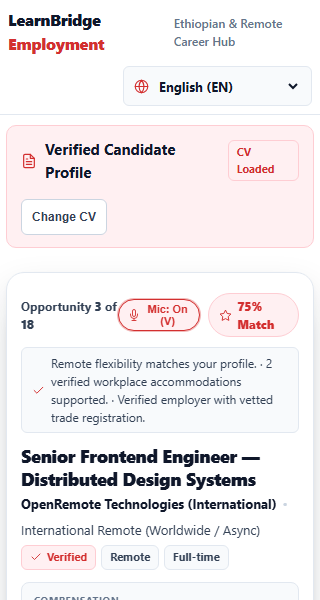
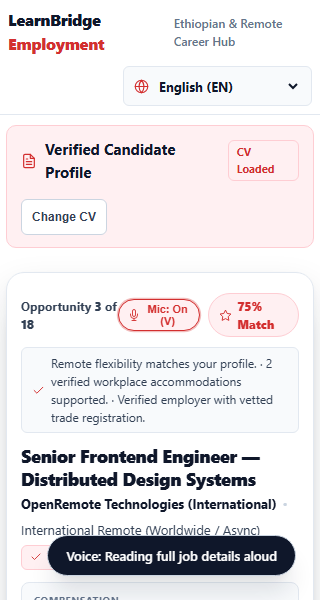
feat(employment): instant voice trigger on 'more' and complete aloud spoken readout from the beginning

Changed region(s): [[0.125, 0.87, 0.9375, 0.99]]

diff --git a/employment/app.js b/employment/app.js
@@ -426,64 +426,177 @@ class EmploymentApp {
     }
   }
 
-  toggleCardDetails() {
+  buildFullSpokenDetails(job, currentItem) {
+    if (!job) return '';
+    const parts = [];
+
+    // Title, Employer & Location
+    parts.push(`Opportunity: ${job.title} at ${job.employerName}, located in ${job.location}.`);
+
+    // Compensation & Salary
+    if (job.salaryDisclosed && job.salaryMin) {
+      const sal = job.salaryMax
+        ? `${job.salaryMin.toLocaleString()} to ${job.salaryMax.toLocaleString()} ${job.currency}`
+        : `From ${job.salaryMin.toLocaleString()} ${job.currency}`;
+      parts.push(`Compensation: ${sal}.`);
+    } else {
+      parts.push(`Compensation is disclosed upon interview.`);
+    }
+
+    // Industry & Work Arrangement
+    parts.push(`Industry: ${job.industry || 'Technology'}. Work type: ${job.employmentType || 'Full-time'}, ${job.isRemote ? 'Remote' : (job.workArrangement || 'On-site')}.`);
+
+    // Match Score & Reason
+    if (currentItem?.matchScore) {
+      parts.push(`Candidate match: ${currentItem.matchScore} percent.`);
+    }
+    if (currentItem?.explanation?.summary) {
+      parts.push(`Match reason: ${currentItem.explanation.summary}.`);
+    }
+
+    // Description Overview
+    if (job.description) {
+      parts.push(`Role overview: ${job.description}.`);
+    }
+
+    // Key Responsibilities
+    if (job.responsibilities && job.responsibilities.length > 0) {
+      parts.push(`Key responsibilities include: ${job.responsibilities.join('. ')}.`);
+    }
+
+    // Requirements & Qualifications
+    if (job.requirements && job.requirements.length > 0) {
+      parts.push(`Requirements and qualifications: ${job.requirements.join('. ')}.`);
+    }
+
+    // Verified Workplace Accommodations
+    const accomms = [];
+    if (job.accommodations) {
+      if (job.accommodations.screen_reader_ready?.status === 'supported') accomms.push('Screen reader workflows');
+      if (job.accommodations.etsl_interpreter?.status === 'supported') accomms.push('Ethiopian Sign Language interpreter available');
+      if (job.accommodations.captioned_meetings?.status === 'supported') accomms.push('Captioned meetings');
+      if (job.accommodations.wheelchair_accessible?.status === 'supported') accomms.push('Barrier-free wheelchair access');
+      if (job.accommodations.flexible_hours?.status === 'supported') accomms.push('Flexible work hours');
+    }
+    if (accomms.length > 0) {
+      parts.push(`Verified workplace accommodations supported: ${accomms.join(', ')}.`);
+    }
+
+    // Next actions
+    parts.push(`To apply with your uploaded CV, press Right Arrow or say Apply. To skip to the next opportunity, press Left Arrow or say Pass. To collapse details, press M or say Less.`);
+
+    return parts.join(' ');
+  }
+
+  showCardDetailsAndRead() {
     const cardEl = document.querySelector('.swipe-card');
     if (!cardEl) return;
     const detailsEl = cardEl.querySelector('.swipe-card-expanded-details');
     const toggleBtn = cardEl.querySelector('#btn-card-toggle-details');
     if (!detailsEl) return;
 
-    const isExpanded = detailsEl.style.display !== 'none';
-    if (isExpanded) {
-      detailsEl.style.display = 'none';
-      detailsEl.setAttribute('aria-hidden', 'true');
-      cardEl.classList.remove('is-expanded');
-      if (toggleBtn) {
-        toggleBtn.setAttribute('aria-expanded', 'false');
-        const txt = toggleBtn.querySelector('.toggle-text');
-        if (txt) txt.textContent = 'More Details (Press M or click)';
-      }
-      if (window.a11y) {
-        window.a11y.announceLive("Collapsed details. Press Right Arrow to apply, Left Arrow to pass, M for details.", false);
-      }
-    } else {
-      detailsEl.style.display = 'block';
-      detailsEl.setAttribute('aria-hidden', 'false');
-      cardEl.classList.add('is-expanded');
-      if (toggleBtn) {
-        toggleBtn.setAttribute('aria-expanded', 'true');
-        const txt = toggleBtn.querySelector('.toggle-text');
-        if (txt) txt.textContent = 'Less Details (Press M to collapse)';
-      }
-      if (window.a11y) {
-        const currentItem = this.cardDeck[this.currentCardIndex];
-        const job = currentItem?.job;
-        const spoken = `Full details for ${job?.title || 'job'}. Press Right Arrow to apply with CV, Left Arrow to pass, or M to collapse.`;
-        window.a11y.announceLive(spoken, false);
-        if (window.a11y.currentMode === 'blind') {
-          window.a11y.speak(spoken);
-        }
+    detailsEl.style.display = 'block';
+    detailsEl.setAttribute('aria-hidden', 'false');
+    cardEl.classList.add('is-expanded');
+    if (toggleBtn) {
+      toggleBtn.setAttribute('aria-expanded', 'true');
+      const txt = toggleBtn.querySelector('.toggle-text');
+      if (txt) txt.textContent = 'Less Details (Press M to collapse)';
+    }
+
+    if (window.a11y) {
+      const currentItem = this.cardDeck[this.currentCardIndex];
+      const job = currentItem?.job;
+      if (job) {
+        const fullReadout = this.buildFullSpokenDetails(job, currentItem);
+        window.a11y.announceLive(fullReadout, false);
+        window.a11y.speak(fullReadout);
       }
     }
   }
 
+  collapseCardDetails() {
+    const cardEl = document.querySelector('.swipe-card');
+    if (!cardEl) return;
+    const detailsEl = cardEl.querySelector('.swipe-card-expanded-details');
+    const toggleBtn = cardEl.querySelector('#btn-card-toggle-details');
+    if (!detailsEl) return;
+
+    detailsEl.style.display = 'none';
+    detailsEl.setAttribute('aria-hidden', 'true');
+    cardEl.classList.remove('is-expanded');
+    if (toggleBtn) {
+      toggleBtn.setAttribute('aria-expanded', 'false');
+      const txt = toggleBtn.querySelector('.toggle-text');
+      if (txt) txt.textContent = 'More Details (Press M or click)';
+    }
+
+    if (window.a11y) {
+      window.a11y.stopSpeech();
+      window.a11y.announceLive("Collapsed details. Press Right Arrow to apply, Left Arrow to pass, M for details.", false);
+    }
+  }
+
+  toggleCardDetails() {
+    const cardEl = document.querySelector('.swipe-card');
+    if (!cardEl) return;
+    const detailsEl = cardEl.querySelector('.swipe-card-expanded-details');
+    if (!detailsEl) return;
+
+    const isExpanded = detailsEl.style.display !== 'none';
+    if (isExpanded) {
+      this.collapseCardDetails();
+    } else {
+      this.showCardDetailsAndRead();
+    }
+  }
+
   handleVoiceCommand(transcript) {
-    const lower = (transcript || '').toLowerCase().trim();
-    if (lower.includes('more') || lower.includes('detail') || lower.includes('expand') || lower.includes('info')) {
-      this.toggleCardDetails();
-      if (window.a11y) window.a11y.showVisualToast('Voice: Revealed Details');
+    if (!transcript) return false;
+    const clean = transcript.toLowerCase().replace(/[^\w\s]/g, ' ').trim();
+    const words = clean.split(/\s+/);
+    console.log("[EmploymentApp] Voice command heard:", transcript, "clean:", clean);
+
+    // 1. More / Details Command
+    const isMore = words.includes('more') || words.includes('detail') || words.includes('details') ||
+                   words.includes('info') || words.includes('information') || words.includes('expand') ||
+                   words.includes('full') || words.includes('read') || clean.includes('more');
+
+    if (isMore) {
+      this.showCardDetailsAndRead();
+      if (window.a11y) window.a11y.showVisualToast('Voice: Reading full job details aloud');
       return true;
     }
-    if (lower.includes('apply') || lower.includes('right') || lower.includes('yes')) {
+
+    // 2. Collapse / Less Command
+    const isLess = words.includes('less') || words.includes('collapse') || words.includes('close') ||
+                   words.includes('hide') || words.includes('stop');
+    if (isLess) {
+      this.collapseCardDetails();
+      if (window.a11y) window.a11y.showVisualToast('Voice: Collapsed details');
+      return true;
+    }
+
+    // 3. Apply / Right Command
+    const isApply = words.includes('apply') || words.includes('right') || words.includes('yes') ||
+                    words.includes('submit') || clean.includes('apply');
+    if (isApply) {
+      if (window.a11y) window.a11y.stopSpeech();
       this.handleCardApply();
       if (window.a11y) window.a11y.showVisualToast('Voice: Applied with CV');
       return true;
     }
-    if (lower.includes('pass') || lower.includes('skip') || lower.includes('left') || lower.includes('no')) {
+
+    // 4. Pass / Left Command
+    const isPass = words.includes('pass') || words.includes('skip') || words.includes('left') ||
+                   words.includes('no') || words.includes('next') || clean.includes('pass') || clean.includes('skip');
+    if (isPass) {
+      if (window.a11y) window.a11y.stopSpeech();
       this.handleCardPass();
       if (window.a11y) window.a11y.showVisualToast('Voice: Passed Opportunity');
       return true;
     }
+
     return false;
   }
 
@@ -568,6 +681,7 @@ class EmploymentApp {
   async handleCardApply() {
     if (this.isCardAnimating || this.currentCardIndex >= this.cardDeck.length) return;
     this.isCardAnimating = true;
+    if (window.a11y) window.a11y.stopSpeech();
 
     const currentItem = this.cardDeck[this.currentCardIndex];
     const job = currentItem.job;
@@ -623,6 +737,7 @@ class EmploymentApp {
   handleCardPass() {
     if (this.isCardAnimating || this.currentCardIndex >= this.cardDeck.length) return;
     this.isCardAnimating = true;
+    if (window.a11y) window.a11y.stopSpeech();
 
     const currentItem = this.cardDeck[this.currentCardIndex];
     const job = currentItem.job;

diff --git a/employment/accessibility/a11yManager.js b/employment/accessibility/a11yManager.js
@@ -645,7 +645,7 @@ class AccessibilityManager {
     try {
       this.recognition = new SpeechRecognition();
       this.recognition.continuous = true;
-      this.recognition.interimResults = false;
+      this.recognition.interimResults = true;
       this.recognition.lang = 'en-US';
       this.isListeningActive = true;
 
@@ -678,13 +678,15 @@ class AccessibilityManager {
       };
 
       this.recognition.onresult = (event) => {
-        const lastResult = event.results[event.results.length - 1];
-        if (!lastResult) return;
-        const transcript = lastResult[0].transcript;
-        console.log("[A11yManager] Heard voice:", transcript);
+        for (let i = event.resultIndex; i < event.results.length; ++i) {
+          const res = event.results[i];
+          const transcript = res[0]?.transcript || '';
+          console.log("[A11yManager] Heard voice result:", transcript, "isFinal:", res.isFinal);
 
-        if (window.app && typeof window.app.handleVoiceCommand === 'function') {
-          window.app.handleVoiceCommand(transcript);
+          if (window.app && typeof window.app.handleVoiceCommand === 'function') {
+            const handled = window.app.handleVoiceCommand(transcript);
+            if (handled) break;
+          }
         }
       };
 

diff --git a/employment/tests/e2e-browser.test.js b/employment/tests/e2e-browser.test.js
@@ -218,6 +218,25 @@ async function runBrowserTests() {
     assert.ok(thirdCardTitle && thirdCardTitle !== secondCardTitle);
     passed++;
 
+    // 14b. Test Saying the Word 'more' Directly (Expands & Reads Full Details from the beginning)
+    const voiceSpokenText = await page.evaluate(() => {
+      let lastSpoken = '';
+      if (window.a11y) {
+        const origSpeak = window.a11y.speak.bind(window.a11y);
+        window.a11y.speak = (text, lang) => {
+          lastSpoken = text;
+          origSpeak(text, lang);
+        };
+      }
+      window.app.handleVoiceCommand('more');
+      return lastSpoken;
+    });
+    console.log(`✓ 17. Voice command 'more' triggered full spoken readout (${voiceSpokenText.slice(0, 80)}...)`);
+    assert.ok(voiceSpokenText.includes('Opportunity:'), "Speech must start from beginning with Opportunity title");
+    assert.ok(voiceSpokenText.includes('Compensation:'), "Speech must include compensation/salary");
+    assert.ok(voiceSpokenText.includes('Industry:'), "Speech must include industry");
+    passed++;
+
     await page.screenshot({ path: path.join(EVIDENCE_DIR, '02-swipeable-card-deck.png') });
 
     // 14. Test Job Details View
